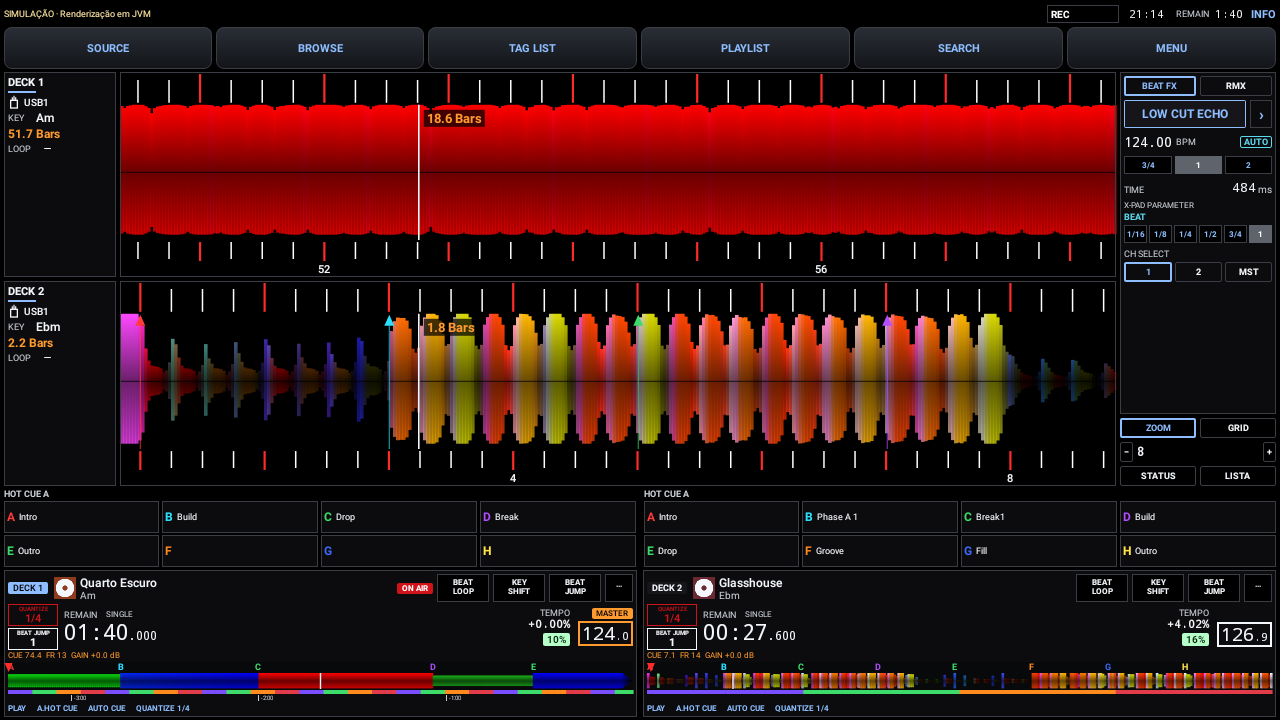
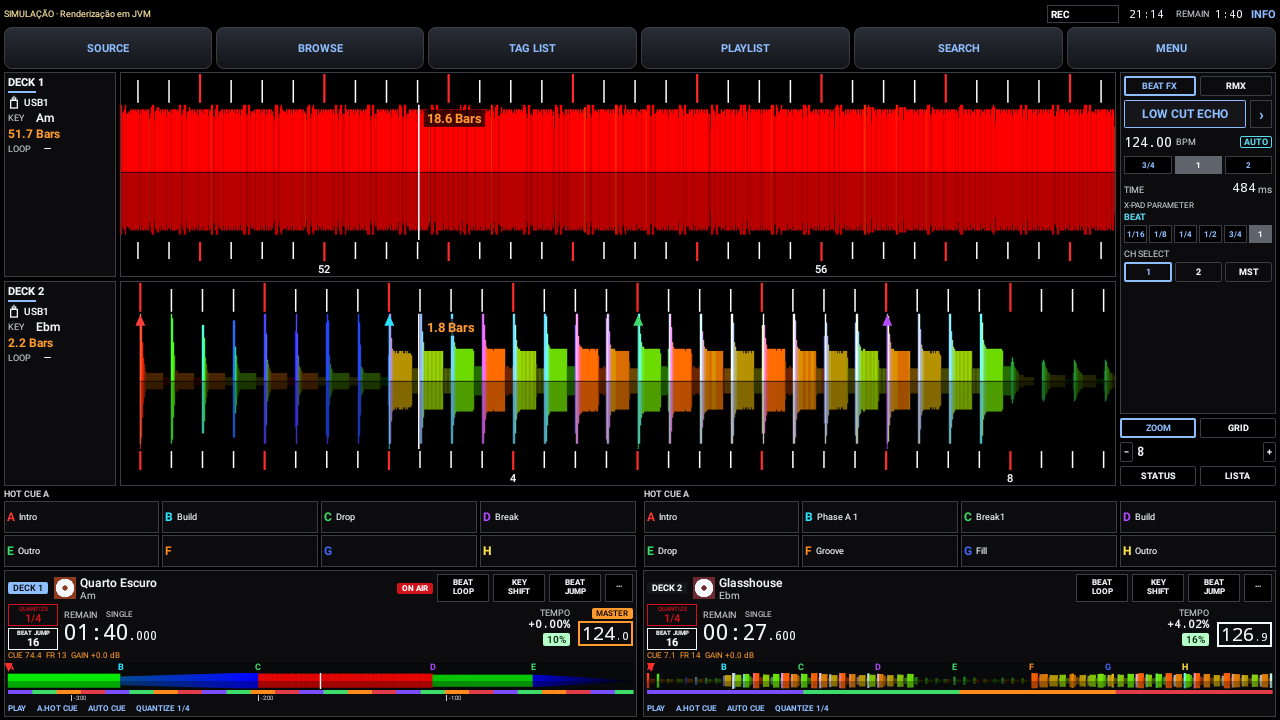
Onda ampliada: 150 colunas por segundo exatas, uma coluna por pixel com pico, sem suavizar, presa à grade
Claude-Session: https://claude.ai/code/session_01Sb59H5wbN2UPN3Jxgrj5kb

diff --git a/android/app/src/main/java/os/deckbridge/android/WaveCanvas.kt b/android/app/src/main/java/os/deckbridge/android/WaveCanvas.kt
@@ -29,7 +29,9 @@ import os.deckbridge.logic.MarkerKind
 import os.deckbridge.logic.RbAnalysis
 import os.deckbridge.logic.RbTrack
 import os.deckbridge.logic.StagePalette
+import os.deckbridge.logic.WaveStrip
 import os.deckbridge.logic.WaveZoom
+import os.deckbridge.logic.waveStrip
 import os.deckbridge.logic.activeLoop
 import os.deckbridge.logic.barsFromSeconds
 import os.deckbridge.logic.GridEdit
@@ -90,35 +92,29 @@ internal fun ZoomedWave(
             val botG = (size.height * 0.18f).coerceAtLeast(30f)
             val waveTop = topG
             val waveBot = size.height - botG
-            val count = (size.width / 3f).toInt().coerceIn(160, 520)
-            val low = FloatArray(count)
-            val mid = FloatArray(count)
-            val high = FloatArray(count)
-            val rgbHeights = FloatArray(count)
-            val rgbColors = IntArray(count)
-            var rgbColumns = 0
-            for (index in 0 until count) {
-                val time = if (whole) duration * index / (count - 1).coerceAtLeast(1) else start + window * index / (count - 1).coerceAtLeast(1)
-                if (waveMode == 0) {
-                    val packed = rgbSample(analysis, "RGB", false, time, duration)
-                    if (packed >= 0) {
-                        rgbHeights[index] = ((packed ushr 32).toInt() and 0xFF) / 255f
-                        rgbColors[index] = (packed and 0xFFFFFF).toInt()
-                        rgbColumns += 1
-                    }
-                } else if (waveMode == 2) {
-                    low[index] = monoSample(analysis, false, time, duration)
-                } else {
+            // Uma coluna por pixel, direto dos dados de 150 por segundo (ver `waveStrip`): sem amostrar de sete em
+            // sete colunas nem suavizar, que era o que deixava a onda em bolhas e os ataques fora da grade.
+            val pixels = size.width.toInt().coerceIn(64, 2400)
+            val viewStart = if (whole) 0.0 else start
+            val viewWindow = if (whole) duration else window
+            val strip = zoomStrip(analysis, waveMode, viewStart, viewWindow, pixels, duration)
+            if (waveMode == 0 && strip != null && strip.heights.any { it > 0f }) {
+                drawRgbColumns(strip.heights, strip.colors, waveTop, waveBot)
+            } else if (strip != null) {
+                val lowSide = if (waveMode == 2) strip.heights else strip.low
+                drawMirroredBands(lowSide, strip.mid, strip.high, waveTop, waveBot, lowGain = 0.98f, midGain = 0.58f, highGain = 0.32f, waveMode = waveMode)
+            } else {
+                val low = FloatArray(pixels)
+                val mid = FloatArray(pixels)
+                val high = FloatArray(pixels)
+                for (index in 0 until pixels) {
+                    val time = viewStart + viewWindow * (index + 0.5) / pixels
                     val sample = bandAt(analysis, duration, time, overview = false)
                     low[index] = sample.first
                     mid[index] = sample.second
                     high[index] = sample.third
                 }
-            }
-            if (waveMode == 0 && rgbColumns > 0) {
-                drawRgbColumns(smooth(rgbHeights), smoothRgb(rgbColors), waveTop, waveBot)
-            } else {
-                drawMirroredBands(smooth(low), smooth(mid), smooth(high), waveTop, waveBot, lowGain = 0.98f, midGain = 0.58f, highGain = 0.32f, waveMode = waveMode)
+                drawMirroredBands(low, mid, high, waveTop, waveBot, lowGain = 0.98f, midGain = 0.58f, highGain = 0.32f, waveMode = waveMode)
             }
             drawLine(
                 Color.Black.copy(alpha = 0.55f),
@@ -407,12 +403,38 @@ private fun androidx.compose.ui.graphics.drawscope.DrawScope.drawOverview(
     drawMirroredBands(columns.first, columns.second, columns.third, top, bottom, lowGain = 0.9f, midGain = 0.7f, highGain = 0.45f, waveMode = 1)
 }
 
+/** Dados de detalhe (150 por segundo) do modo pedido, em uma coluna por pixel; null se a faixa não tem detalhe. */
+internal fun zoomStrip(analysis: RbAnalysis?, waveMode: Int, start: Double, window: Double, pixels: Int, duration: Double): WaveStrip? {
+    if (analysis == null) return null
+    val rgb = analysis.rgbDetail
+    if (waveMode == 0 && rgb != null && rgb.columns > 1 && rgb.perSecond > 0.0) {
+        return waveStrip(start, window, pixels, rgb.perSecond, rgb.columns, { rgb.height[it].toInt() and 0xFF }, { rgb.rgb[it] })
+    }
+    val bands = analysis.bandDetail
+    if (waveMode != 2 && bands != null && bands.columns > 1) {
+        return waveStrip(
+            start, window, pixels, 150.0, bands.columns,
+            { maxOf(bands.low[it].toInt() and 0xFF, bands.mid[it].toInt() and 0xFF, bands.high[it].toInt() and 0xFF) },
+            { 0 },
+            { bands.low[it].toInt() and 0xFF },
+            { bands.mid[it].toInt() and 0xFF },
+            { bands.high[it].toInt() and 0xFF },
+        )
+    }
+    val blue = analysis.blueDetail
+    if (blue.isNotEmpty()) {
+        return waveStrip(start, window, pixels, 150.0, blue.size, { blue[it].toInt() and 0xFF }, { 0 }, { blue[it].toInt() and 0xFF })
+    }
+    return null
+}
+
 internal fun bandAt(analysis: RbAnalysis?, duration: Double, time: Double, overview: Boolean = false): Triple<Float, Float, Float> {
     if (duration <= 0.0 || time < 0.0 || time > duration) return Triple(0f, 0f, 0f)
     val bands = if (overview) analysis?.bandPreview ?: analysis?.bands else analysis?.bandDetail ?: analysis?.bands
     if (bands != null && bands.columns > 1) {
-        val pos = (time / duration).coerceIn(0.0, 1.0)
-        val scaled = pos * (bands.columns - 1)
+        // O detalhe tem 150 colunas por segundo. Mapear pela duração (inteira, truncada) escorregava até meio segundo.
+        val detail = !overview && bands === analysis?.bandDetail
+        val scaled = if (detail) (time * 150.0 - 0.5).coerceIn(0.0, bands.columns - 1.0) else (time / duration).coerceIn(0.0, 1.0) * (bands.columns - 1)
         val index = scaled.toInt().coerceIn(0, bands.columns - 1)
         val next = (index + 1).coerceAtMost(bands.columns - 1)
         val mix = (scaled - index).toFloat()
@@ -511,21 +533,11 @@ private fun androidx.compose.ui.graphics.drawscope.DrawScope.drawRgbColumns(
         val red = ((color shr 16) and 0xFF) / 255f
         val green = ((color shr 8) and 0xFF) / 255f
         val blue = (color and 0xFF) / 255f
-        val bright = Color(red, green, blue)
-        val shade = Color(red * 0.42f, green * 0.42f, blue * 0.42f)
         val reach = height * amp
-        val x = index * slot
-        drawRect(
-            brush = Brush.verticalGradient(listOf(bright, shade), startY = mid - reach, endY = mid),
-            topLeft = Offset(x, mid - reach),
-            size = Size(slot + 0.6f, reach),
-        )
-        val lower = reach * 0.92f
-        drawRect(
-            brush = Brush.verticalGradient(listOf(shade, bright.copy(alpha = 0.72f)), startY = mid, endY = mid + lower),
-            topLeft = Offset(x, mid),
-            size = Size(slot + 0.6f, lower),
-        )
+        val x = index * slot + slot / 2f
+        // Uma linha por pixel, cor cheia em cima e um pouco mais escura embaixo, como a onda do leitor.
+        drawLine(Color(red, green, blue), Offset(x, mid - reach), Offset(x, mid), strokeWidth = slot + 0.4f)
+        drawLine(Color(red * 0.72f, green * 0.72f, blue * 0.72f), Offset(x, mid), Offset(x, mid + reach * 0.92f), strokeWidth = slot + 0.4f)
     }
 }
 

diff --git a/android/app/src/main/java/os/deckbridge/logic/WaveColor.kt b/android/app/src/main/java/os/deckbridge/logic/WaveColor.kt
@@ -198,13 +198,9 @@ fun decodeMonoByte(raw: Int): Int = scale5(raw and 0x1F)
 
 fun colorIndex(wave: ColorWave, time: Double, duration: Double): Int {
     if (wave.columns <= 1) return 0
-    val pos = if (wave.perSecond > 0.0) {
-        time * wave.perSecond
-    } else if (duration > 0.0) {
-        (time / duration) * (wave.columns - 1)
-    } else {
-        0.0
-    }
+    // Com taxa fixa, a coluna que contém o instante (não a mais próxima pelo centro: isso puxava meia coluna).
+    if (wave.perSecond > 0.0) return Math.floor(time * wave.perSecond).toInt().coerceIn(0, wave.columns - 1)
+    val pos = if (duration > 0.0) (time / duration) * (wave.columns - 1) else 0.0
     return pos.roundToInt().coerceIn(0, wave.columns - 1)
 }
 
@@ -370,7 +366,9 @@ fun decodeWavMono(bytes: ByteArray): WavPcm? {
 
 fun wavesFromPcm(samples: FloatArray, rate: Int): PcmWaves {
     val seconds = if (rate > 0) samples.size.toDouble() / rate else 0.0
-    val detailCount = (seconds * 150.0).roundToInt().coerceIn(2, 80_000)
+    // 150 colunas por segundo, exatas (como o detalhe do rekordbox). Sem teto baixo: com o teto de 80 000 uma faixa
+    // de mais de 8 min 53 s tinha menos colunas por segundo do que a leitura supunha e a onda escorregava da grade.
+    val detailCount = Math.ceil(seconds * 150.0).toInt().coerceIn(2, 150 * 1500)
     val bands = splitBands(samples, rate, detailCount)
     val preview = downsampleBands(bands, 1200)
     val rgbDetail = colorWave(bands, 150.0, "APP")
@@ -419,8 +417,10 @@ private fun splitBands(samples: FloatArray, rate: Int, columns: Int): WaveBands 
         // agudo são mais pontudos. O percentil de cada uma compensa isso.
         val lowBand = zeroPhaseButterworth(samples, rate, 200.0)
         val belowHigh = zeroPhaseButterworth(samples, rate, 2200.0)
-        val per = samples.size.toDouble() / columns
-        val window = (rate * 0.032).roundToInt().coerceIn(32, rate)
+        // Uma coluna = 1/150 s. A janela é de uma coluna e meia (10 ms), centrada: os ataques ficam numa coluna só.
+        // A janela antiga, de 32 ms, espalhava cada bumbo por cinco colunas e a onda ficava em bolhas.
+        val per = if (columns >= 2 && samples.size.toDouble() / columns > rate / 150.0 * 1.5) samples.size.toDouble() / columns else rate / 150.0
+        val window = (per * 1.5).roundToInt().coerceIn(8, rate)
         val half = window / 2
         for (column in 0 until columns) {
             val center = ((column + 0.5) * per).roundToInt().coerceIn(0, samples.lastIndex)
@@ -450,19 +450,19 @@ private fun splitBands(samples: FloatArray, rate: Int, columns: Int): WaveBands 
             }
         }
     }
-    // Grave e agudo usam um percentil mais baixo: o corpo da linha e o padrão do
-    // chimbal chegam no teto, não só o pico. O médio usa um percentil alto para
-    // não pintar a faixa inteira de verde.
-    val lowRef = percentile(low, 0.58)
-    val midRef = percentile(mid, 0.94)
-    val highRef = percentile(high, 0.55)
-    val loudRef = percentile(loud, 0.72)
+    // Referência perto do topo (percentil 97 a 98,5): os picos chegam ao teto e o resto fica proporcional, então um
+    // breakdown fica baixo e cada batida aparece separada. Com percentis de 55 a 72 % e colunas de 1/150 s, o fundo
+    // também batia no teto e a onda virava um bloco cheio.
+    val lowRef = percentile(low, 0.97)
+    val midRef = percentile(mid, 0.97)
+    val highRef = percentile(high, 0.97)
+    val loudRef = percentile(loud, 0.985)
     val floor = max(lowRef, max(midRef, highRef)) * 0.12
     return WaveBands(
-        shapeBand(low, max(lowRef, floor), 1.15, 1.25),
-        shapeBand(mid, max(midRef, floor), 0.88, 1.25),
-        shapeBand(high, max(highRef, floor), 1.20, 1.25),
-        shapeBand(loud, loudRef, 1.0, 1.15),
+        shapeBand(low, max(lowRef, floor), 1.0, 0.85),
+        shapeBand(mid, max(midRef, floor), 0.9, 0.85),
+        shapeBand(high, max(highRef, floor), 1.0, 0.85),
+        shapeBand(loud, loudRef, 1.0, 0.9),
     )
 }
 
@@ -569,4 +569,81 @@ fun devSettingBytes(color: Int, position: Int): ByteArray {
     file.putU32le(100, 32)
     data.copyInto(file, 104)
     return file
+}
+
+
+/** Onda ampliada pronta para desenhar: uma coluna por pixel, altura 0..1 e cor 0xRRGGBB (ou três bandas 0..1). */
+class WaveStrip(val heights: FloatArray, val colors: IntArray, val low: FloatArray, val mid: FloatArray, val high: FloatArray)
+
+/**
+ * Uma coluna por pixel a partir de dados de taxa fixa (`perSecond` entradas por segundo). Quando um pixel cobre várias
+ * entradas, fica com a maior (o pico de um bumbo nunca some entre dois pixels, como na tela do leitor); quando cobre
+ * menos de uma, interpola entre os centros das entradas. Nada de suavizar: a forma de cada batida aparece.
+ */
+fun waveStrip(
+    start: Double,
+    window: Double,
+    pixels: Int,
+    perSecond: Double,
+    count: Int,
+    height: (Int) -> Int,
+    color: (Int) -> Int,
+    low: (Int) -> Int = { 0 },
+    mid: (Int) -> Int = { 0 },
+    high: (Int) -> Int = { 0 },
+): WaveStrip {
+    val heights = FloatArray(pixels)
+    val colors = IntArray(pixels)
+    val lows = FloatArray(pixels)
+    val mids = FloatArray(pixels)
+    val highs = FloatArray(pixels)
+    if (pixels <= 0 || count <= 0 || perSecond <= 0.0 || window <= 0.0) return WaveStrip(heights, colors, lows, mids, highs)
+    for (pixel in 0 until pixels) {
+        val a = (start + window * pixel / pixels) * perSecond
+        val b = (start + window * (pixel + 1) / pixels) * perSecond
+        val first = Math.floor(a).toInt()
+        val last = Math.ceil(b).toInt() - 1
+        if (last >= 0 && first < count && last > first) {
+            var best = -1
+            var bestHeight = -1
+            var l = 0
+            var m = 0
+            var h = 0
+            for (index in first.coerceAtLeast(0)..last.coerceAtMost(count - 1)) {
+                val value = height(index)
+                if (value > bestHeight) {
+                    bestHeight = value
+                    best = index
+                }
+                l = maxOf(l, low(index))
+                m = maxOf(m, mid(index))
+                h = maxOf(h, high(index))
+            }
+            if (best >= 0) {
+                heights[pixel] = bestHeight / 255f
+                colors[pixel] = color(best)
+                lows[pixel] = l / 255f
+                mids[pixel] = m / 255f
+                highs[pixel] = h / 255f
+            }
+        } else {
+            // Menos de uma entrada por pixel: interpolação entre os centros das entradas vizinhas.
+            val centre = (a + b) / 2.0 - 0.5
+            val i0 = Math.floor(centre).toInt()
+            val frac = (centre - i0).toFloat()
+            fun lerp(read: (Int) -> Int): Float {
+                val x0 = if (i0 in 0 until count) read(i0) else 0
+                val x1 = if (i0 + 1 in 0 until count) read(i0 + 1) else 0
+                return (x0 * (1f - frac) + x1 * frac) / 255f
+            }
+            if (i0 + 1 >= 0 && i0 < count) {
+                heights[pixel] = lerp(height)
+                colors[pixel] = color((if (frac < 0.5f) i0 else i0 + 1).coerceIn(0, count - 1))
+                lows[pixel] = lerp(low)
+                mids[pixel] = lerp(mid)
+                highs[pixel] = lerp(high)
+            }
+        }
+    }
+    return WaveStrip(heights, colors, lows, mids, highs)
 }

diff --git a/android/app/src/test/java/os/deckbridge/logic/WaveDetailTest.kt b/android/app/src/test/java/os/deckbridge/logic/WaveDetailTest.kt
@@ -1,0 +1,75 @@
+package os.deckbridge.logic
+
+import org.junit.Assert.assertEquals
+import org.junit.Assert.assertTrue
+import org.junit.Test
+import kotlin.math.abs
+import kotlin.math.floor
+
+class WaveDetailTest {
+    private val rate = 22050
+
+    /** Cliques curtos a 120 BPM, com um pouco de ruído de fundo. */
+    private fun clicks(seconds: Int, bpm: Double = 120.0): Pair<FloatArray, List<Double>> {
+        val samples = FloatArray(rate * seconds)
+        val random = java.util.Random(3)
+        for (i in samples.indices) samples[i] = ((random.nextDouble() * 2 - 1) * 0.01).toFloat()
+        val times = ArrayList<Double>()
+        var t = 0.5
+        while (t < seconds - 0.5) {
+            val at = (t * rate).toInt()
+            for (k in 0 until 40) samples[at + k] += (if (k % 2 == 0) 0.9f else -0.9f) * (1f - k / 40f)
+            times += t
+            t += 60.0 / bpm
+        }
+        return samples to times
+    }
+
+    @Test
+    fun eachClickLandsInItsOwnColumnAtOneHundredFiftyPerSecond() {
+        val (samples, times) = clicks(30)
+        val wave = wavesFromPcm(samples, rate).rgbDetail
+        assertEquals(150.0, wave.perSecond, 0.0)
+        assertEquals(30 * 150, wave.columns)
+        var worst = 0.0
+        for (t in times) {
+            // A coluna mais alta perto do clique deve ser a do clique (no máximo uma coluna, 6,7 ms, de diferença).
+            val from = floor((t - 0.05) * 150).toInt()
+            val to = floor((t + 0.05) * 150).toInt()
+            val peak = (from..to).maxBy { wave.height[it].toInt() and 0xFF }
+            worst = maxOf(worst, abs(peak - floor(t * 150)) / 150.0)
+            // E o meio do caminho entre dois cliques é bem mais baixo: as batidas aparecem separadas.
+            val between = floor((t + 0.25) * 150).toInt()
+            if (between < wave.columns) {
+                assertTrue("contraste", (wave.height[peak].toInt() and 0xFF) > 3 * (wave.height[between].toInt() and 0xFF))
+            }
+        }
+        assertTrue("pior desvio ${worst * 1000} ms", worst <= 1.0 / 150.0 + 1e-9)
+    }
+
+    @Test
+    fun longTracksKeepOneHundredFiftyColumnsPerSecond() {
+        // Mais de 8 min 53 s: o teto antigo de 80 000 colunas fazia a onda escorregar da grade no fim da faixa.
+        val seconds = 600
+        val samples = FloatArray(8000 * seconds)
+        val wave = wavesFromPcm(samples, 8000).rgbDetail
+        assertEquals(seconds * 150, wave.columns)
+    }
+
+    @Test
+    fun aSpikeSurvivesEveryZoomAndSitsInTheRightPixel() {
+        val count = 150 * 60
+        val spike = 4321
+        val heights = IntArray(count) { 10 }
+        heights[spike] = 250
+        for (window in doubleArrayOf(1.0, 4.0, 15.0, 60.0)) {
+            val start = spike / 150.0 - window * 0.3
+            val pixels = 900
+            val strip = waveStrip(start, window, pixels, 150.0, count, { heights[it] }, { it })
+            val best = strip.heights.indices.maxBy { strip.heights[it] }
+            val expected = ((spike + 0.5) / 150.0 - start) / window * pixels
+            assertTrue("janela $window: pixel $best, esperado $expected", abs(best - expected) <= maxOf(1.5, pixels / (window * 150.0)))
+            assertTrue("janela $window: altura ${strip.heights[best]}", strip.heights[best] > 0.9f)
+        }
+    }
+}

diff --git a/android/app/src/main/java/os/deckbridge/logic/PlainFolder.kt b/android/app/src/main/java/os/deckbridge/logic/PlainFolder.kt
@@ -33,7 +33,7 @@ fun plainAudioFiles(root: File, limit: Int = 300): List<File> {
     return out
 }
 
-private const val PLAIN_ALGO = "0131"
+private const val PLAIN_ALGO = "0132"
 
 fun analyzePlainPcm(samples: FloatArray, rate: Int): Pair<TrackRead, PcmWaves> {
     return analyzeTrack(samples, rate) to wavesFromPcm(samples, rate)

diff --git a/docs/runbooks/implementation-log.md b/docs/runbooks/implementation-log.md
@@ -471,3 +471,11 @@ O equipamento físico fica para o fim. Simulação não foi montada (T075–T077
 - Cartão do deck mais próximo do leitor de club: caixas QUANTIZE e BEAT JUMP à esquerda do tempo, "SINGLE", marcas de tempo restante sob a onda geral; JUMP e Q saíram da coluna da esquerda.
 - Evidência: `ShowControlsTest` (4 testes), suíte completa e `assembleMultiDebug` (compila o C++) passam; `docs/ui/compact-player.png`.
 - Não verificado: reverso, ajuste de loop e contador de falhas no tablet e na DDJ-400 (`BLOCKED_HARDWARE`). O limiar de 90% do contador é nosso, não medido em hardware. O LED do SHIFT+PLAY não foi mapeado.
+
+## 2026-10-24 — Onda ampliada com a resolução do leitor e presa à grade
+
+- Problema relatado: a onda não batia com a referência (rekordbox/CDJ), as batidas pareciam fora da grade e faltava detalhe.
+- Causas medidas no código: (1) cada coluna de 1/150 s era a média de 32 ms, então um bumbo se espalhava por cinco colunas; (2) a tela desenhava uma amostra a cada ~7 colunas (largura/3 pontos para 8 compassos) e ainda suavizava, então os ataques caíam entre pontos e a forma virava bolha; (3) o modo de 3 bandas mapeava o tempo pela duração inteira truncada (até meio segundo de desvio no fim); (4) o teto de 80 000 colunas deixava faixas de mais de 8 min 53 s com menos de 150 colunas por segundo, e a onda escorregava; (5) a normalização por percentil baixo saturava o fundo.
+- Mudança: 150 colunas por segundo exatas, janela de 10 ms centrada, referência no percentil 97–98,5; coluna que contém o instante (não a mais próxima); `waveStrip`: uma coluna por pixel com o pico das entradas que o pixel cobre (ou interpolação, quando ampliado), sem suavizar; linhas cheias por pixel no RGB; detalhe de 3 bandas mapeado a 150 por segundo. Cache da análise de pasta passou a "0132".
+- Evidência: `WaveDetailTest` (cada clique na sua coluna, no máximo 6,7 ms; faixa de 10 min com 150 colunas/s; um pico aparece no pixel certo em janelas de 1 a 60 s); `docs/ui/onda-antes-depois.png` (mesmo instante do set, antes em cima e depois embaixo).
+- Não verificado contra a tela de um CDJ de verdade nem no tablet (`BLOCKED_HARDWARE`).
